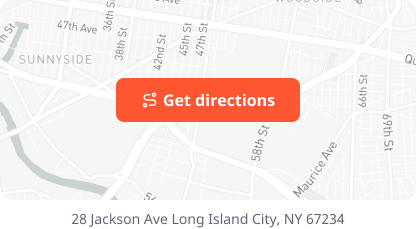
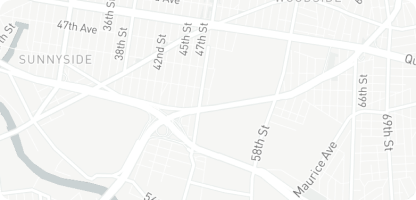
Include single Property right side

diff --git a/single-property-v1.html b/single-property-v1.html
@@ -830,7 +830,8 @@
 
           <!-- Right Side -->
           <div class="right-property-post col-lg-4 col-md-5 ms-lg-auto">
-            <div class="card">
+            <!-- Contact Form -->
+            <div class="card mb-4">
               <div class="card-body">
                 <div
                   class="d-flex align-items-start justify-content-between border-bottom pb-4 mb-4"
@@ -898,7 +899,6 @@
                   <input
                     class="form-control mb-3"
                     type="date"
-                    placeholder="Desired move-in Date"
                     aria-label="default input example"
                     required
                   />
@@ -917,7 +917,9 @@
                       type="checkbox"
                       checked=""
                     />
-                    <label class="form-check-label" for="form-submit"
+                    <label
+                      class="form-check-label custom-mute-text"
+                      for="form-submit"
                       >Send me news, tips and promos from Finder using my
                       email.</label
                     >
@@ -933,6 +935,27 @@
                 </form>
                 <!-- end -->
               </div>
+            </div>
+
+            <!-- Map -->
+            <div class="map pt-2">
+              <div class="position-relative mb-2">
+                <img
+                  class="rounded-3"
+                  src="./assets/images/catalog/single-property-page/map.png"
+                  alt="Map"
+                />
+                <div
+                  class="map-button d-flex align-items-center justify-content-center position-absolute"
+                >
+                  <button class="btn btn-primary">
+                    <i class="icon-route me-2"></i>Get directions
+                  </button>
+                </div>
+              </div>
+              <p class="mb-0 custom-mute-text text-center">
+                28 Jackson Ave Long Island City, NY 67234
+              </p>
             </div>
           </div>
         </div>

diff --git a/css/utilities.css b/css/utilities.css
@@ -140,7 +140,7 @@ i {
   background: rgba(7, 201, 139, 1) !important;
 }
 
-/* button utilities */
+/* button start */
 .btn:hover {
   background-color: #fd390e !important;
 }
@@ -182,6 +182,7 @@ i {
   font-weight: 700;
   font-size: 16px;
 }
+/* button end */
 
 .custom-hr {
   border: none;
@@ -222,3 +223,10 @@ hr {
   font-size: 14px;
   color: var(--bs-gray-600);
 }
+
+/* from start */
+.form-control[type="date"],
+[type="text"] {
+  color: var(--bs-gray-600);
+}
+/* from end */

diff --git a/css/catalog.css b/css/catalog.css
@@ -305,6 +305,11 @@ Keywords: real state, Template etc.
   box-shadow: var(--shadow-small);
 }
 
+.map .map-button {
+  height: 100%;
+  width: 100%;
+  inset: 0;
+}
 /* ===== Right Side Section END ===== */
 
 /* ===== Section START ===== */
